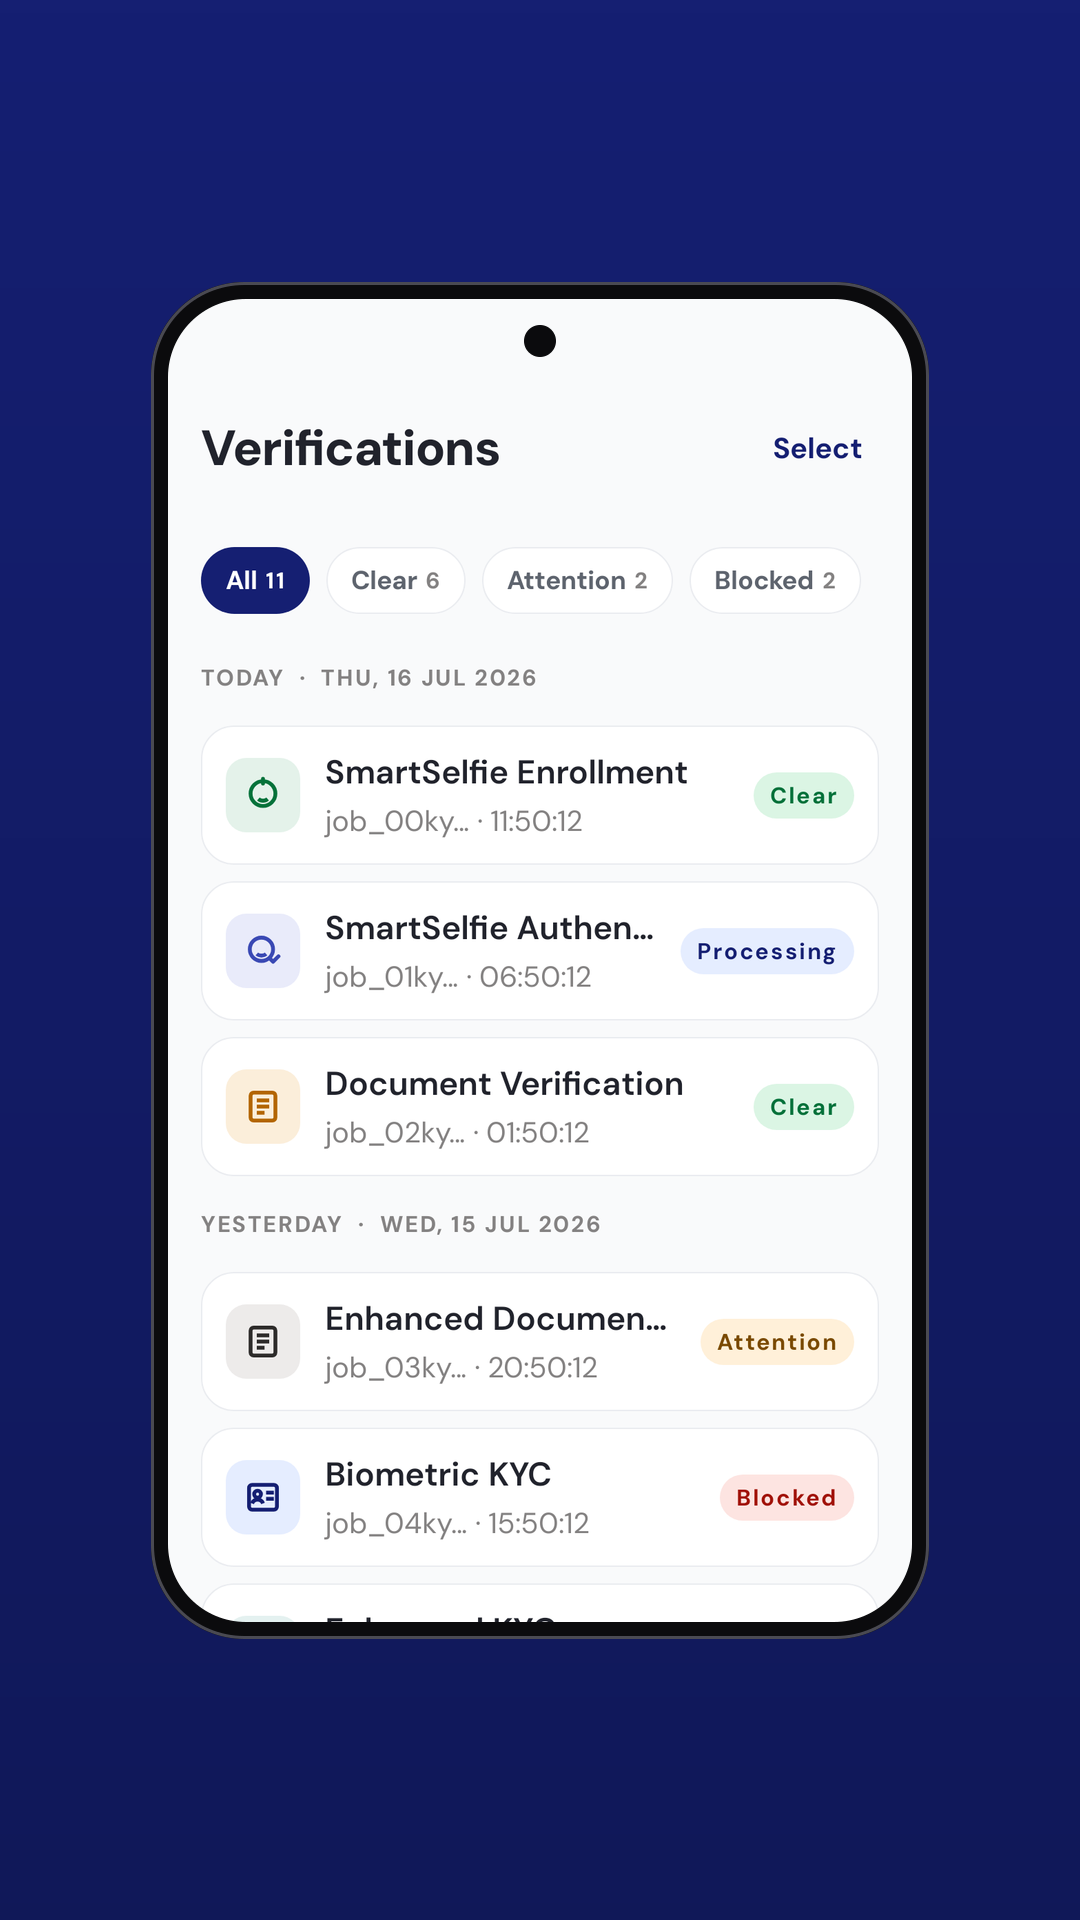
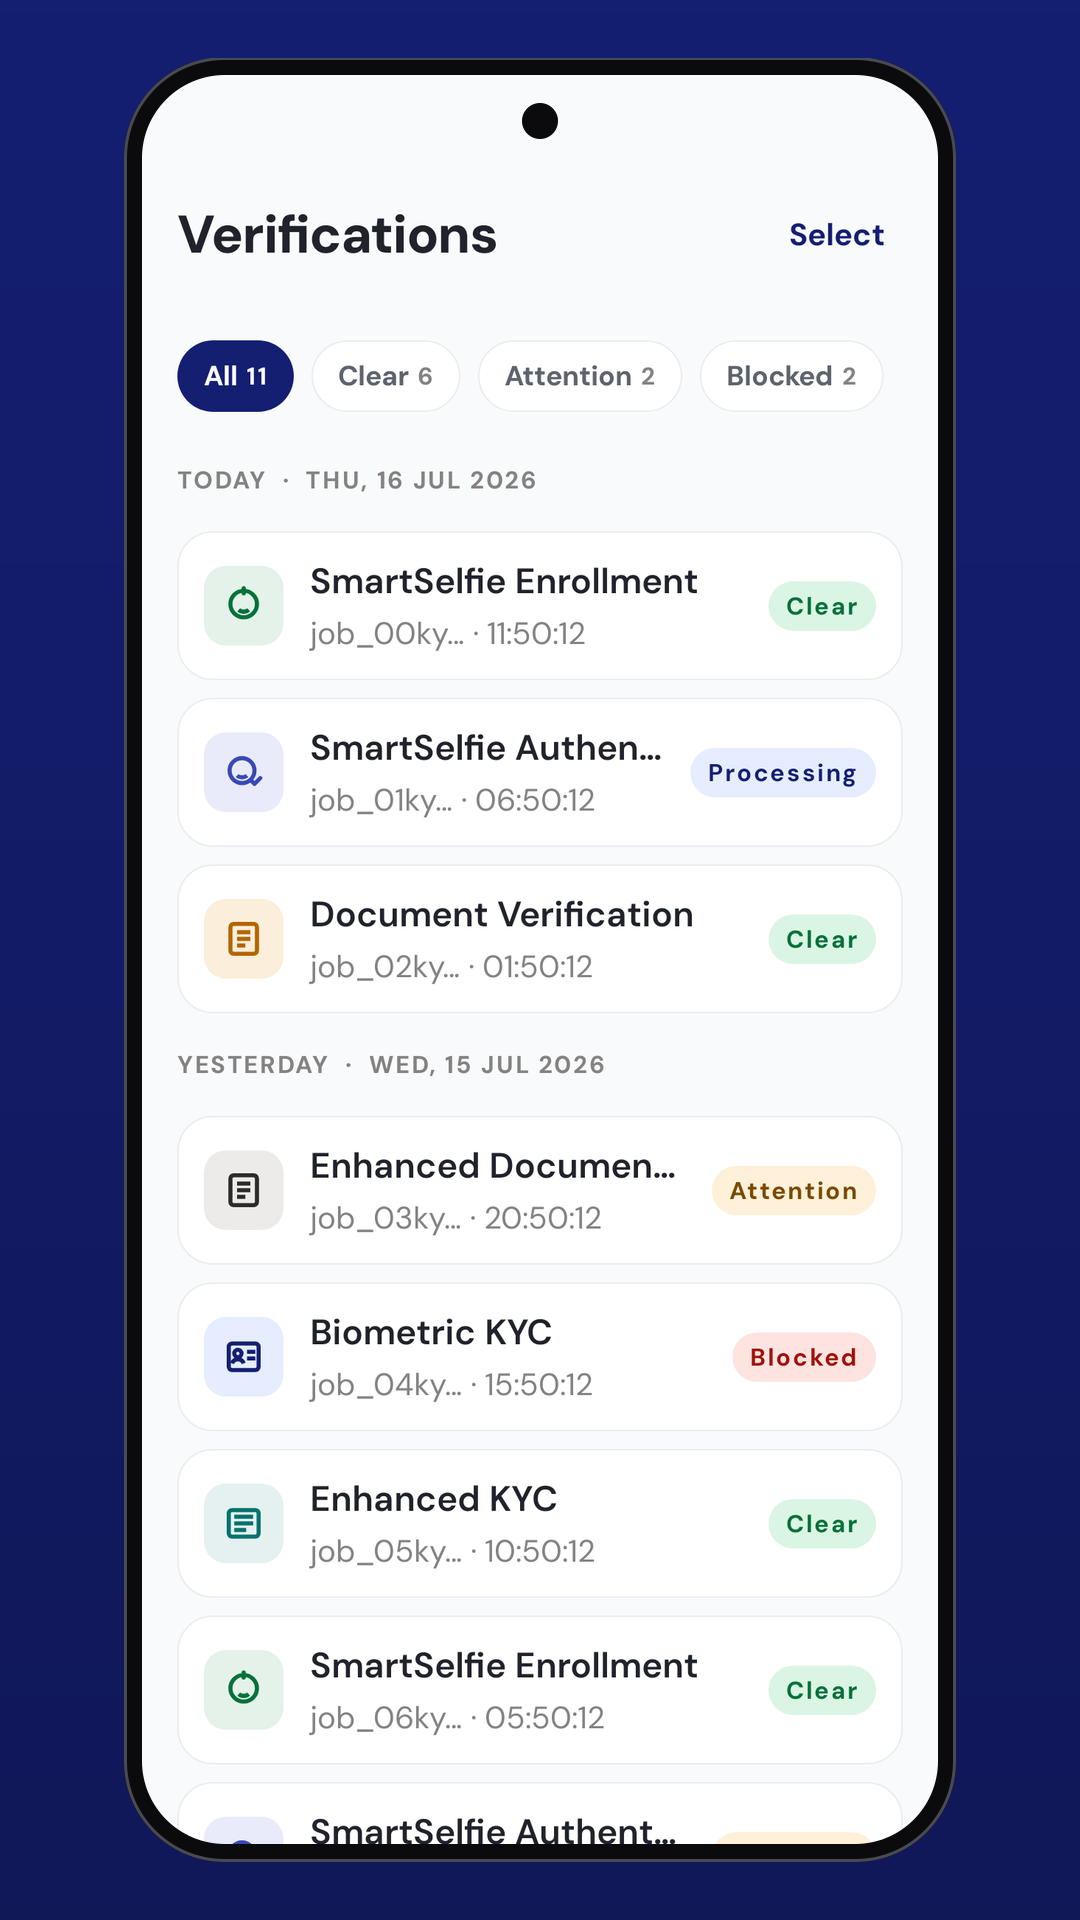
fix: record the Play store-art frames on a 20:9 phone

diff --git a/android/sample-ui/src/test/kotlin/com/usesmileid/sampleapps/ui/storeart/StoreArtTest.kt b/android/sample-ui/src/test/kotlin/com/usesmileid/sampleapps/ui/storeart/StoreArtTest.kt
@@ -134,4 +134,4 @@ class StoreArtTest {
     }
 }
 
-internal const val STORE_PHONE_QUALIFIERS = "w360dp-h640dp-xxhdpi"
+internal const val STORE_PHONE_QUALIFIERS = "w360dp-h800dp-xxhdpi"

diff --git a/docs/plan/play-release-android.md b/docs/plan/play-release-android.md
@@ -199,13 +199,22 @@ background, gradient and frame with the whole device centred, composed by `scrip
 because storeshots refuses an empty headline, then validated by storeshots as before. The listing copy
 carries the words, so the two rules above now govern that copy rather than the art.
 
+**The phone got taller on 2026-09-18.** Two things made the wordless panels read as a short phone. The
+frames were recorded at `w360dp-h640dp`, a 16:9 device, so the capture itself was squat and cut the
+products grid at its third row; `StoreArtTest` now records at `w360dp-h800dp` (1080×2400, 20:9), the
+shape of the phones partners hold. And storeshots gives the drawn screen the panel's aspect — 16:9 on
+Play — and sizes the device at 72% of the width to leave room for a headline; the composer now keeps
+the capture's own aspect and lets the device take up to 90% of the panel's width, or as much height as
+a 3% margin allows, which on Play's 16:9 canvas is the height. The same composer rule sizes the iOS
+panels, so the two stores move together.
+
 ### 2.7 What building the pipeline changed
 
 Three corrections, all found by running it rather than by reading:
 
 - **Gradle Managed Devices cannot host the camera capture.** GMD starts and stops its emulator around a
   Gradle *test task*, and Maestro is not one, so a GMD block would declare an image nothing uses. The
-  image is pinned in the flow's header instead — a Pixel-class AVD on API 34, at 1080x1920 so the frame
+  image is pinned in the flow's header instead — a Pixel-class AVD on API 34, at 1080x2400 so the frame
   needs no rescaling next to the five rendered panels.
 - **The capture flow lives in `android/maestro/store/`, not beside the suite.** Folder runs are
   non-recursive, which is how `subflows/` stays out of the suite; a top-level `store-shots.yaml` would
